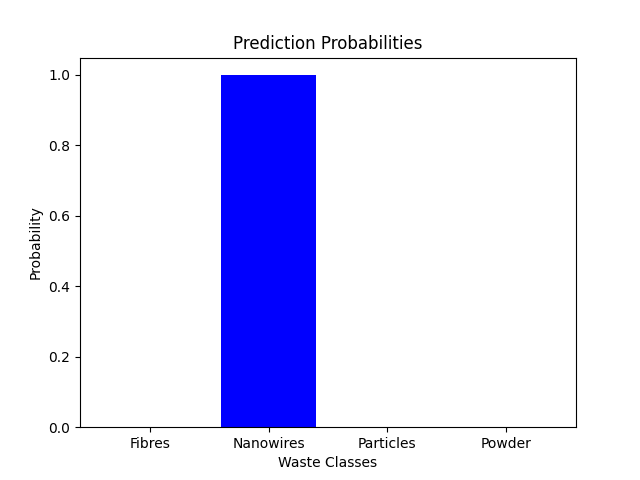
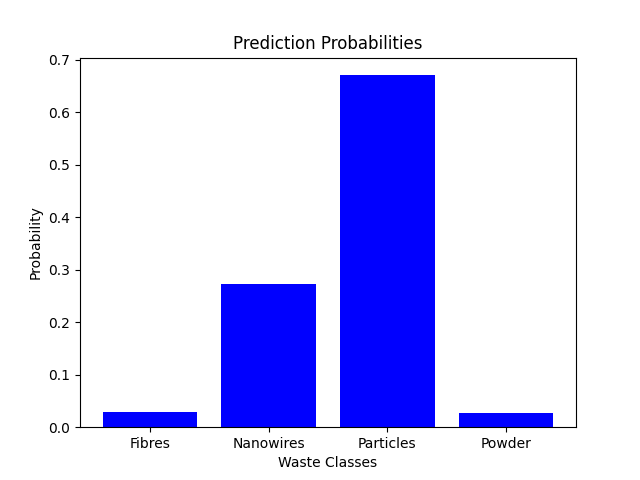
gradio_son

diff --git a/gradio_dene.py b/gradio_dene.py
@@ -39,12 +39,15 @@ def classify_image(pil_image):
     class_names = list(waste_labels.values())
     probabilities = prediction[0]
 
+    print(class_names)
+    print(probabilities)
    
     plt.bar(class_names, probabilities, color='blue')
     plt.xlabel('Waste Classes')
     plt.ylabel('Probability')
     plt.title('Prediction Probabilities')
     plt.savefig('prediction_plot.png')
+    plt.close()
 
     
     output_text = f"Predicted Class: {predicted_class_name}, Confidence: {confidence:.4f}\n"
@@ -54,7 +57,15 @@ def classify_image(pil_image):
     return output_text, 'prediction_plot.png'
 
 
-iface = gr.Interface(fn=classify_image, inputs="image", outputs=["text", "image"],live=True)
+iface = gr.Interface(fn=classify_image, 
+                     inputs="image", 
+                     outputs=["text", "image"],
+                     # examples=["L9_1b95a3808073c0edad3454d1dedf3dcc.jpg","L6_0a171beb21a6f4d6fef31f8ccb400eae.jpg","L2_00a6b5e9806a8b072b98fdeacb3f45b5.jpg","L4_0b02898e9d31954dd5378e0ffbdb9a41.jpg"],
+                     title= "SEM IMAGES CLASSIFICATION",
+                     description= "Fibres, Nanowires, Particles, Powder SEM görüntülerini sınıflandıran model arayüzü",
+                     theme=gr.themes.Soft(),
+                     live=True)
 
 
 iface.launch()
+

diff --git a/tests/gradio_deneme.py b/tests/gradio_deneme.py
@@ -1,0 +1,43 @@
+import gradio as gr
+import numpy as np
+import matplotlib.pyplot as plt
+from PIL import Image
+import tensorflow as tf
+from tensorflow.keras.preprocessing import image
+from tensorflow.keras.models import load_model
+from tensorflow.keras.applications.efficientnet import preprocess_input
+
+
+model = load_model("efficent_net224B0.h5")
+
+
+waste_labels = {0: 'Fibres', 1: 'Nanowires', 2: 'Particles', 3: 'Powder'}
+
+def classify_image(pil_image):
+    
+    img = image.img_to_array(pil_image)
+    
+ 
+    img = tf.image.resize(img, (224, 224))
+    
+    
+    img = np.expand_dims(img, axis=0)
+    
+    
+    img = preprocess_input(img)
+    
+
+    prediction = model.predict(img)
+    
+    
+    predicted_class = np.argmax(prediction)
+    predicted_class_name = waste_labels[predicted_class]
+    confidence = prediction[0, np.argmax(prediction)]
+
+    
+    class_names = list(waste_labels.values())
+    probabilities = prediction[0]
+
+    return class_names, probabilities
+
+print(classify_image("B:\Dosya\Kodlar\Sem-Images-Classification\data\data100\Fibres\L9_0a95f6c416d2bd7c7675d27602ca1b4b.jpg"))
